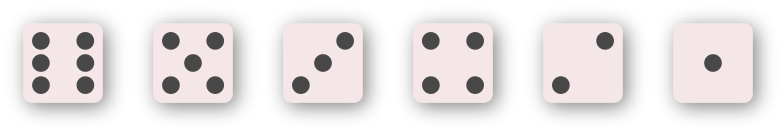
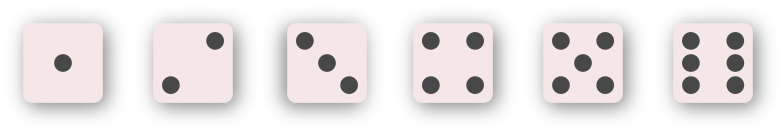
draw dice

diff --git a/src/checker.c b/src/checker.c
@@ -124,8 +124,7 @@ void GameBoard_destroy(GameBoard* board) {
   free(board);
 }
 
-GameBoard* GameBoard_create(Sage* sage) {
-  GameBoard* board = calloc(1, sizeof(GameBoard));
+void createCheckers(Sage* sage, GameBoard* board){
   SDL_Texture* lightTexture = Sage_loadTexture(sage, "assets/light.png");
   SDL_Texture* darkTexture = Sage_loadTexture(sage, "assets/dark.png");
   SDL_Rect src_rect = { 0, 0, CHECKER_SRC_SIZE, CHECKER_SRC_SIZE };
@@ -169,5 +168,28 @@ GameBoard* GameBoard_create(Sage* sage) {
       Sage_registerSprite(sage, s);
     }
   }
+}
+
+void createDice(Sage* sage, GameBoard* board){
+  board->die1 = 1;
+  board->die2 = 1;
+  SDL_Texture* diceTexture = Sage_loadTexture(sage, "assets/dice.png");
+  SDL_Rect src_rect = { 0, 0, DIE_SRC_W, DIE_SRC_H };
+
+  for (int32_t i = 0; i < 2; i++) {
+    float x = DIE_R1_X_NORMAL + (i * DIE_W_NORMAL);
+    float y = DIE_Y_NORMAL;
+    SDL_FRect dst_rect = { x, y, DIE_W_NORMAL, DIE_H_NORMAL };
+    Sprite* s = Sprite_createEx(diceTexture, src_rect, dst_rect, Z_DICE, false, true, true, false);
+    Sage_registerSprite(sage, s);
+  }
+}
+
+
+GameBoard* GameBoard_create(Sage* sage) {
+  GameBoard* board = calloc(1, sizeof(GameBoard));
+  createCheckers(sage, board);
+  createDice(sage, board);
+
   return board;
 }

diff --git a/include/checker.h b/include/checker.h
@@ -11,7 +11,8 @@
 #define CHECKER_SRC_SIZE 188
 #define CHECKER_W_NORMAL 0.055164319248826
 #define CHECKER_H_NORMAL 0.070464767616192
-#define CHECKER_H_OFFSET_NORMAL (CHECKER_H_NORMAL * .95)
+//#define CHECKER_H_OFFSET_NORMAL (CHECKER_H_NORMAL * .95)
+#define CHECKER_H_OFFSET_NORMAL 0.066941529235382
 #define CHECKER_LEFT_X_OFFSET_NORMAL 0.124823943661972
 #define CHECKER_RIGHT_OFFSET_NORMAL 0.823004694835681
 #define CHECKER_TOP_Y_OFFSET_NORMAL 0.050224887556222
@@ -32,6 +33,8 @@ struct GameBoard {
   Checker lightCheckers[15];
   Checker darkCheckers[15];
   int32_t pipCounts[30];     // number of checkers on each pip
+  int32_t die1;
+  int32_t die2;
 };
 
 GameBoard* GameBoard_create(Sage* sage);

diff --git a/src/main.c b/src/main.c
@@ -4,8 +4,8 @@
 #include "dstats.h"
 #include "log.h"
 
-#define WINDOW_W (1920)
-#define WINDOW_H (1080)
+#define WINDOW_W (430)
+#define WINDOW_H (932)
 #define MAX_ASPECT_RATIO (1.4)
 #define MIN_ASPECT_RATIO (.7)
 #define MAX_BOARD_WIDTH_PCT (.9)

diff --git a/include/util.h b/include/util.h
@@ -12,6 +12,7 @@
 #define Z_PIPS 2
 #define Z_TRIM 3
 #define Z_CHECKERS 4
+#define Z_DICE 5
 
 #define BOARD_SRC_W 1630
 #define BOARD_SRC_H 1260
